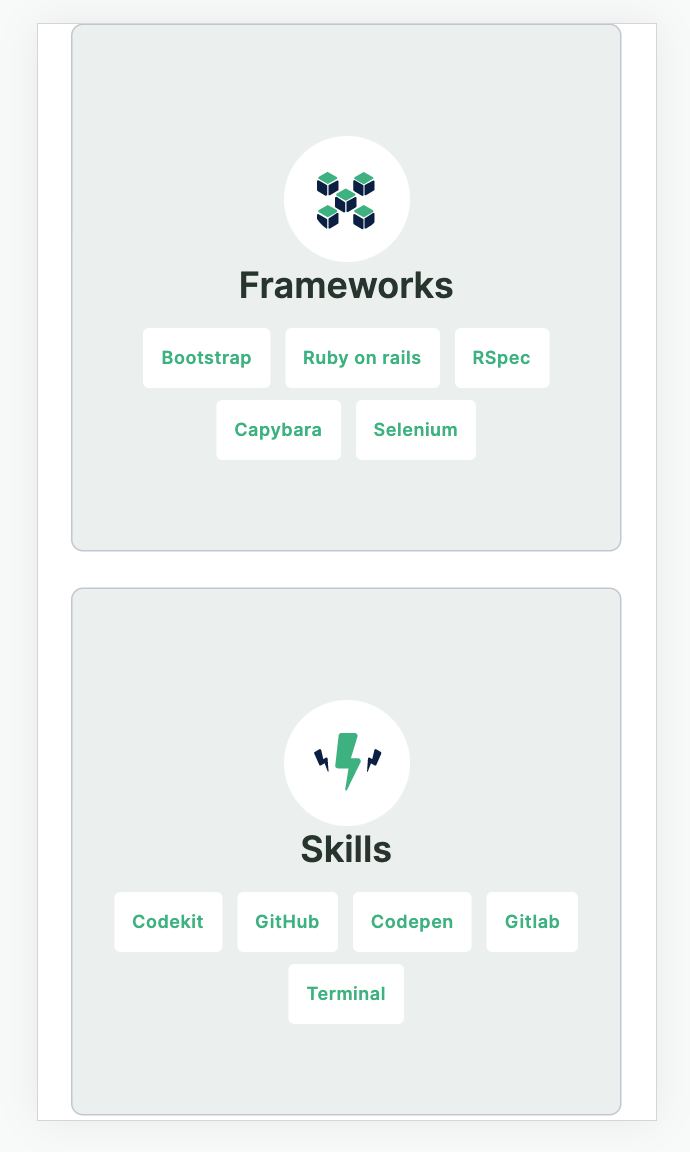
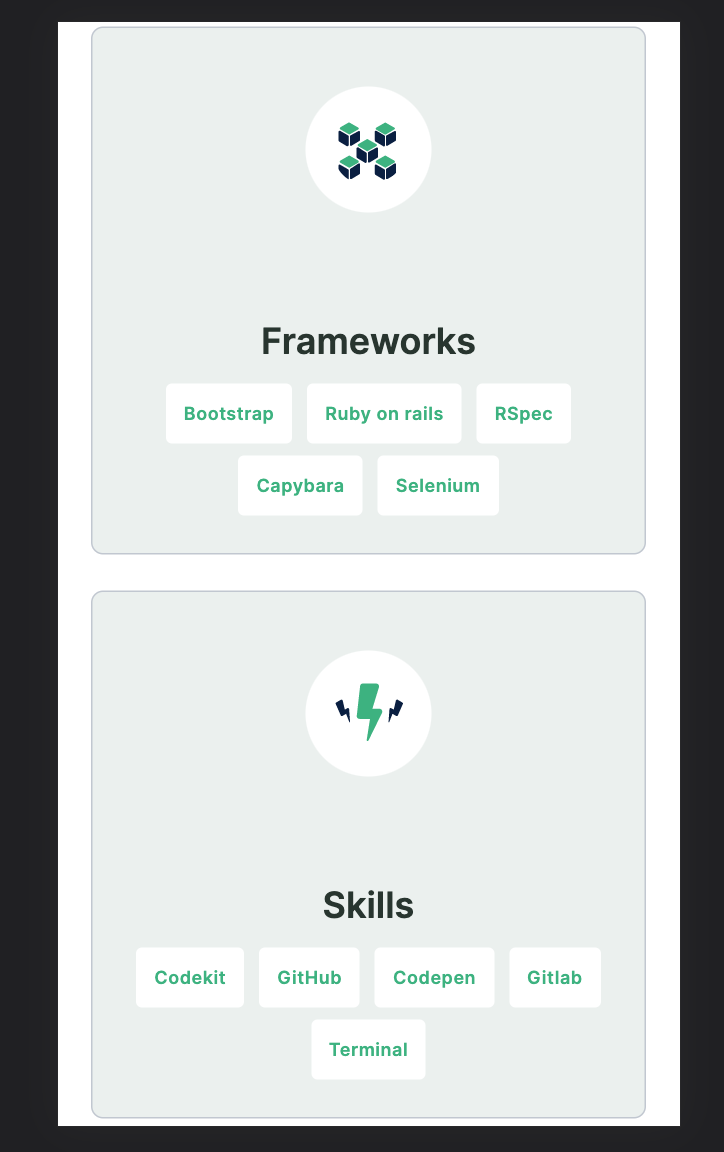
fixing notes after reviewing code

diff --git a/styles.css b/styles.css
@@ -158,7 +158,6 @@ hr {
 }
 
 .work-list {
-  /* justify-content: space-between; */
   display: flex;
   justify-content: center;
   align-items: center;
@@ -224,6 +223,7 @@ hr {
   padding: 18px;
   border-radius: 50%;
   margin-top: 34px;
+  margin-bottom: 70px;
 }
 
 .about-div {
@@ -280,7 +280,8 @@ hr {
   border-radius: 4px;
   padding: 12px;
   border: none;
-  margin-bottom: 22px;
+  margin-bottom: 26px;
+  margin-top: 36px;
 }
 
 .about-button:focus {

diff --git a/index.html b/index.html
@@ -138,7 +138,7 @@
     <div class="about-div">
         <img class="about-icon" src="images/frameworks.svg" alt="">
         <h4>Frameworks</h4>
-        <ul class="about-li">
+        <ul class="about-list">
             <li>Bootstrap</li>
             <li>Ruby on rails</li>
             <li>RSpec</li>
